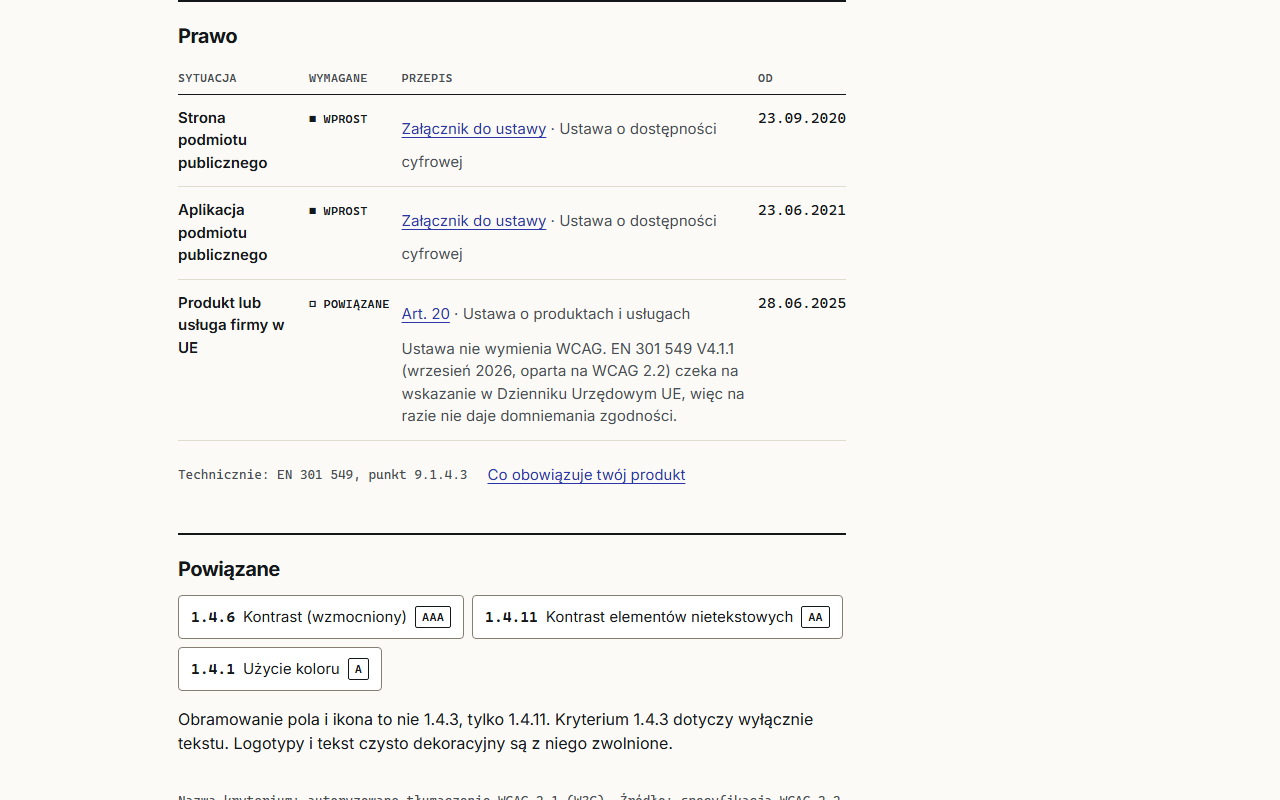
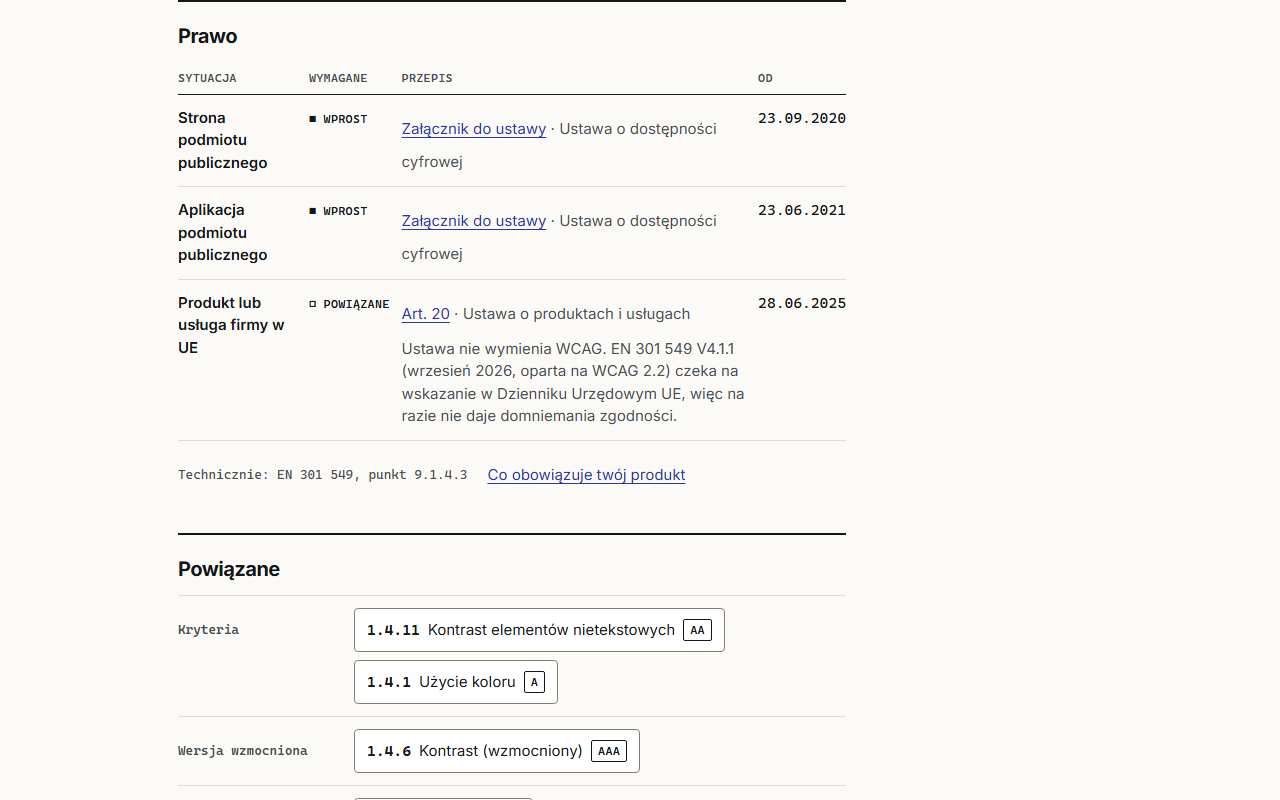
docs: update README for phase 8

Changed region(s): [[0.125, 0.75, 0.6562, 1.0], [0.5625, 0.9688, 0.625, 1.0]]

diff --git a/README.md b/README.md
@@ -19,7 +19,7 @@ a11y playground is a learning app for people who build digital products in Polan
 The interface is in Polish. This README is in English.
 
 > [!NOTE]
-> The project is in phase 7 (impairment simulators). Every A and AA criterion of WCAG 2.2 has a plain-language explanation, eleven common faults have a broken and a fixed example, and each example can be viewed through five simulators. Three Polish acts are in the app with the statute text and our summaries, and five learning paths walk through them lesson by lesson. All content is marked as a draft until a person has checked it. Phase 5 (accounts) is postponed, so progress is kept in the browser.
+> The project is in phase 8 (AAA criteria and WCAG 3.0 tracking). Every criterion of WCAG 2.2, A to AAA, has a plain-language explanation, and `/wcag-3` tracks the WCAG 3.0 Working Draft with our mapping to today's criteria. Eleven common faults have a broken and a fixed example, each viewable through five simulators. Three Polish acts are in the app with the statute text and our summaries, and five learning paths walk through them lesson by lesson. All content is marked as a draft until a person has checked it. Phase 5 (accounts) is postponed, so progress is kept in the browser.
 
 ### What works today
 
@@ -29,10 +29,12 @@ The interface is in Polish. This README is in English.
 - Skip link, a stable landmark structure, and focus moved to the new `h1` with the page title announced after every client-side route change.
 - **Criteria list** (`/kryteria`) with filters for WCAG version, level, principle and role. The filters are native radio buttons and checkboxes, their state lives in the URL, and the result count is announced to screen readers.
 - **Criterion pages** (`/kryteria/1.4.3`) with a fixed section order, a "nowe w 2.2" badge for the nine new criteria, and 4.1.1 marked as removed in 2.2. Every page is prerendered to static HTML.
-- **Explanations** for all 55 A and AA criteria: who it affects, how to meet it by role, typical errors, how to test it, common confusions. Drafts carry a visible "szkic, czeka na weryfikację" badge.
+- **Explanations** for all 86 criteria of WCAG 2.2, A, AA and AAA: who it affects, how to meet it by role, typical errors, how to test it, common confusions. 4.1.1 gets a short page on why 2.2 removed it and why the 2019 act still lists it. Drafts carry a visible "szkic, czeka na weryfikację" badge.
+- **AAA criteria** say "Poziom AAA: cel, nie obowiązek" under the summary, and each one's "Jak to spełnić" says when it pays off. Thirteen of them tighten an AA criterion, and their page compares the two side by side with the difference in one line (`/kryteria/1.4.6` against 1.4.3); the AA page links to its stronger version. Where this app meets an AAA criterion (1.4.6, 2.3.3, 2.4.13, 2.5.5), the page says so and how a test checks it.
+- **WCAG 3.0** (`/wcag-3`, in the main navigation): the status of the Working Draft of 10 September 2026 under a "wersja robocza W3C" badge, with the date we last compared it with w3.org, a table of how 3.0 differs from 2.2, and one table of all 46 guidelines in 12 groups with the 2.2 criteria that correspond to them today, or "Nowe w 3.0". The mapping is ours and the page says so. A filter (`?pokaz=nowe`) shows only what is new in 3.0, and every criterion page links to its guidelines.
 - **Normative text** in Polish from the authorized W3C translation of WCAG 2.1, collapsed on each criterion page. The criteria new in 2.2 link to their sources until a licensed Polish text is available.
 - **Glossary** (`/slownik`) of about 30 terms, alphabetical, each with a plain explanation and, where WCAG defines the term, its normative wording. The first use of a term in a criterion links to it, with a small button that opens a short definition.
-- **Search** (`/szukaj`, also on the home page) over criteria, examples, provisions, lessons and the glossary. It finds criteria by number, name or symptom ("modal", "placeholder"), articles by topic ("deklaracja dostępności"), and ignores Polish diacritics.
+- **Search** (`/szukaj`, also on the home page) over criteria, examples, provisions, lessons, WCAG 3.0 guidelines and the glossary. It finds criteria by number, name or symptom ("modal", "placeholder"), articles by topic ("deklaracja dostępności"), and ignores Polish diacritics.
 - **Practice** (`/praktyka`): eleven examples as cards ordered by the cost of the fix, each with what the user gains. An example page (`/praktyka/ikona-jako-przycisk`) shows the broken and the fixed variant one above the other, each running in a sandboxed iframe, with its code and what a screen reader says. Examples that move start only when the reader asks. Criterion pages link to their examples.
 - **Simulators** on every example page: a list beside the frames switches both variants to colour vision deficiency (four types), low vision, keyboard only, screen reader, 320 pixels wide or text at 200%. The choice lives in `?symulacja=`, and none is on by default. Each one puts text next to the frames, so no simulator is the only way to get the information: what the simulation shows and what it does not, the numbered focus steps and blocked mouse clicks, a table of what a screen reader reads in both variants (computed at build time), or whether the content fits in 320 pixels, measured in the frame.
 - **Simulators page** (`/symulatory`): what each simulator shows, its limits, the criteria it teaches, and links into the examples with the simulation already picked.
@@ -66,6 +68,10 @@ The interface is in Polish. This README is in English.
 | Paths | Path page | Lesson quiz |
 | --- | --- | --- |
 | ![Five paths with progress on the developer and designer paths](docs/screenshots/paths.png) | ![Developer path syllabus with three lessons done and quiz scores](docs/screenshots/path.png) | ![A checked quiz question with an explanation under every option](docs/screenshots/lesson-quiz.png) |
+
+| AAA criterion | WCAG 3.0 | New in WCAG 3.0 |
+| --- | --- | --- |
+| ![Criterion 1.4.6 compared with 1.4.3, with the AAA note and the difference in one line](docs/screenshots/criterion-aaa.png) | ![The WCAG 3.0 page with the working draft badge, the dates and the comparison with 2.2](docs/screenshots/wcag3.png) | ![The WCAG 3.0 mapping filtered to guidelines new in 3.0](docs/screenshots/wcag3-mapping.png) |
 
 | Glossary preview | Glossary | Search |
 | --- | --- | --- |
@@ -116,10 +122,11 @@ Osoby po czterdziestce, którym spada wrażliwość na kontrast. Kryterium mierz
   - `roles`: any of `programista`, `projektant`, `autor treści`, `tester`.
   - `related`: other criterion numbers.
   - `keywords`: optional words people search with, not shown on the page.
+  - `enhances` and `difference`: for an AAA criterion that tightens a lower-level one in the same guideline, its number and one line, up to 160 characters, on what changes. Always both or neither.
   - `lastVerified`: the date of that check. Required with `zweryfikowane`, not allowed with `szkic`.
-- **Sections** must use these `##` titles, in this order: Kogo to dotyczy, Jak to spełnić, Typowe błędy, Jak sprawdzić, Częste pomyłki. Use `###` inside a section, for example to split it by role. Every A and AA criterion needs the first four.
+- **Sections** must use these `##` titles, in this order: Kogo to dotyczy, Jak to spełnić, Typowe błędy, Jak sprawdzić, Częste pomyłki. Use `###` inside a section, for example to split it by role. Every criterion needs the first four, except 4.1.1, which WCAG 2.2 removed.
 - **Glossary terms:** mark a term as `[nazwę](slownik:nazwa)`. The first use on a page becomes a link with a definition preview, later uses stay plain text. Terms are marked by hand because Polish inflection makes automatic matching unreliable.
-- **Checks:** a file with a typo in a section title, an unknown key or glossary term, a summary that is too long, or a reference to a criterion that does not exist fails `pnpm test` and the build, with the file name and the reason. So does a missing A or AA explanation, and verified content older than 12 months.
+- **Checks:** a file with a typo in a section title, an unknown key or glossary term, a summary that is too long, or a reference to a criterion that does not exist fails `pnpm test` and the build, with the file name and the reason. So does a missing explanation, an `enhances` that points at the same or a higher level or another guideline, and verified content older than 12 months.
 
 To verify a draft, check it against the normative text and the W3C Understanding document, then change `status` to `zweryfikowane` and add `lastVerified`.
 
@@ -207,6 +214,48 @@ Opis ogólny, pokazywany przy przykładach bez własnej notatki.
 - `examples` become the "Wypróbuj na" links on `/symulatory`.
 - `limits` is shown as "Czego to nie pokazuje" next to every simulation of that kind.
 - The screen reader list is computed by a Vite plugin (`src/content/reading-order.vite.ts`) with jsdom and `dom-accessibility-api`, for each fragment after its script has run. A role without a Polish name fails `pnpm test`.
+
+### WCAG 3.0
+
+The tracking page reads `content/wcag3/`: `index.md` for the draft and the comparison, and one file per guideline group.
+
+```markdown
+---
+status: szkic
+draft: 2026-09-10
+draftUrl: https://www.w3.org/TR/2026/WD-wcag-3.0-20260910/
+checked: 2026-10-01
+compare:
+  - topic: Poziomy
+    wcag2: A, AA, AAA
+    wcag3: Wymagania podstawowe (core) i uzupełniające (supplemental), bez liter
+---
+Status of the draft, in plain words.
+```
+
+```yaml
+# content/wcag3/obrazy-i-multimedia.md (frontmatter only)
+num: "2.1"
+title: Obrazy i multimedia
+en: Images and media
+status: szkic
+guidelines:
+  - num: "2.1.1"
+    en: Image alternatives
+    title: Alternatywy dla obrazów
+    criteria: ["1.1.1"]
+  - num: "2.1.9"
+    en: Accessible media player
+    title: Dostępny odtwarzacz
+    criteria: []
+    note: Twierdzenie o wyborze dostępnego odtwarzacza, a nie wymaganie wobec samej treści.
+```
+
+- `draft` is the date of the Working Draft the content describes, `checked` the day we last compared the content with the draft current on w3.org. When `checked` is more than six months old, `pnpm test` fails: read the latest draft, update the files, and move the date.
+- A guideline with empty `criteria` shows as "Nowe w 3.0"; `note` says in one line what it asks. Guideline numbers must sit inside their group, criteria must exist, and a group file has no text after the frontmatter.
+
+> [!WARNING]
+> The mapping is our judgement, not a W3C equivalence. Write "corresponds today", never "replaces".
 
 ### Acts
 
@@ -311,7 +360,7 @@ Run the import by hand and review the diff of the generated files in a PR.
 | `pnpm build` | Builds the production app into `.output/`. |
 | `pnpm preview` | Serves the production build locally. |
 | `pnpm lint` | Runs ESLint (with `jsx-a11y` in strict mode) and the TypeScript compiler. |
-| `pnpm test` | Runs the Vitest content and data tests, then builds the app and runs the Playwright suite: axe in light and dark mode, 44px target checks, and keyboard flows. |
+| `pnpm test` | Runs the Vitest content and data tests, then builds the app and runs the Playwright suite: axe in light and dark mode, 44px target checks, no running animations, and keyboard flows. |
 | `pnpm import:wcag` | Regenerates the WCAG structure with Polish names. See [Where the criterion names come from](#where-the-criterion-names-come-from). |
 | `pnpm import:legal` | Regenerates the statute text of the acts. See [Where the statute text comes from](#where-the-statute-text-comes-from). |
 
@@ -329,10 +378,11 @@ CI runs `lint`, `build` and `test` on every pull request and on pushes to `maste
 
 ## Accessibility of the app itself
 
-The baseline is WCAG 2.2 Level AA, plus 2.3.3 and 2.5.5 at AAA. See [`docs/accessibility.md`](docs/accessibility.md). Because this is an app about accessibility, it also goes further in a few places:
+The baseline is WCAG 2.2 Level AA, plus 2.3.3 and 2.5.5 at AAA. See [`docs/accessibility.md`](docs/accessibility.md). Because this is an app about accessibility, it also goes further in a few places, and the pages of these AAA criteria say so ("Ta aplikacja to spełnia", from `src/content/app-meets.ts`):
 
 - **1.4.6 Contrast (Enhanced), AAA.** Every text colour pair reaches at least 7:1 in both themes, and axe runs with the AAA rule set.
-- **2.4.13 Focus Appearance, AAA.** A 3px solid outline on every focusable element, switched to the system `Highlight` colour in forced colours mode.
+- **2.3.3 Animation from Interactions, AAA.** The interface does not animate, and a test checks that no page runs an animation. Examples that move start only on request.
+- **2.4.13 Focus Appearance, AAA.** A 3px solid outline on every focusable element, switched to the system `Highlight` colour in forced colours mode. A keyboard test checks the outline at every Tab stop of a criterion page.
 - **2.5.5 Target Size (Enhanced), AAA.** Interactive elements are at least 44 by 44 pixels, and a test checks this on every route.
 - Zoom is never blocked, and no information is carried by colour alone.
 
@@ -349,17 +399,18 @@ content/
   prawo/         one Markdown file per act: summaries and deadlines
   sciezki/       one folder per learning path: lessons and their quizzes
   symulatory/    one Markdown file per kind of simulator
+  wcag3/         the WCAG 3.0 draft overview and one file per guideline group
 scripts/
   import-wcag.ts   generates src/content/wcag.gen.ts and wcag-text.gen.ts
   import-legal.ts  generates src/content/legal.gen.ts and legal-text.gen.ts
 src/
-  content/       WCAG structure, acts and the legal mapping, Markdown parsing and validation, server functions
+  content/       WCAG structure, the WCAG 3.0 mapping, acts and the legal mapping, Markdown parsing and validation, server functions
   search/        search options, index builder and relevance tests
   progress/      reading progress and quiz scores in localStorage
   routes/        file-based routes (__root.tsx holds the layout)
-  components/    header, theme toggle, route announcer, badges, glossary previews, example frames and cards, the simulator list, the quiz
+  components/    header, theme toggle, route announcer, badges, filter chips, the AAA comparison, glossary previews, example frames and cards, the simulator list, the quiz
   styles.css     Tailwind setup, colour tokens, styles for rendered Markdown
-e2e/             Playwright tests: axe, target size, keyboard, example isolation, simulators, a whole path from the keyboard
+e2e/             Playwright tests: axe, target size, animations, keyboard, example isolation, simulators, a whole path from the keyboard, WCAG 3.0
 docs/
   accessibility.md   the accessibility checklist
   design/            dated plans and mocks
@@ -378,4 +429,4 @@ The full plan, with content scope, architecture and risks, is in [`docs/design/2
 - [ ] **5. Accounts.** Optional progress, notes and bookmarks with Convex. Postponed; phase 6 went first with progress in the browser.
 - [x] **6. Paths and quizzes.** Five learning paths, 29 lessons with quizzes, progress in `localStorage`. Detailed plan: [`docs/design/2026-09-29-phase-6-paths`](docs/design/2026-09-29-phase-6-paths/phase-6-paths.en.html).
 - [x] **7. Impairment simulators.** Colour vision, low vision, keyboard only, screen reader and narrow screen on every example, each with a text alternative, and `/symulatory`. Detailed plan: [`docs/design/2026-09-29-phase-7-simulators`](docs/design/2026-09-29-phase-7-simulators/phase-7-simulators.en.html).
-- [ ] **8. AAA criteria and WCAG 3.0 tracking.**
+- [x] **8. AAA criteria and WCAG 3.0 tracking.** Explanations for the 31 AAA criteria and 4.1.1, the comparison with the AA criterion each one tightens, and `/wcag-3` with the guideline mapping. Detailed plan: [`docs/design/2026-10-01-phase-8-aaa-wcag3`](docs/design/2026-10-01-phase-8-aaa-wcag3/phase-8-aaa-wcag3.en.html).
